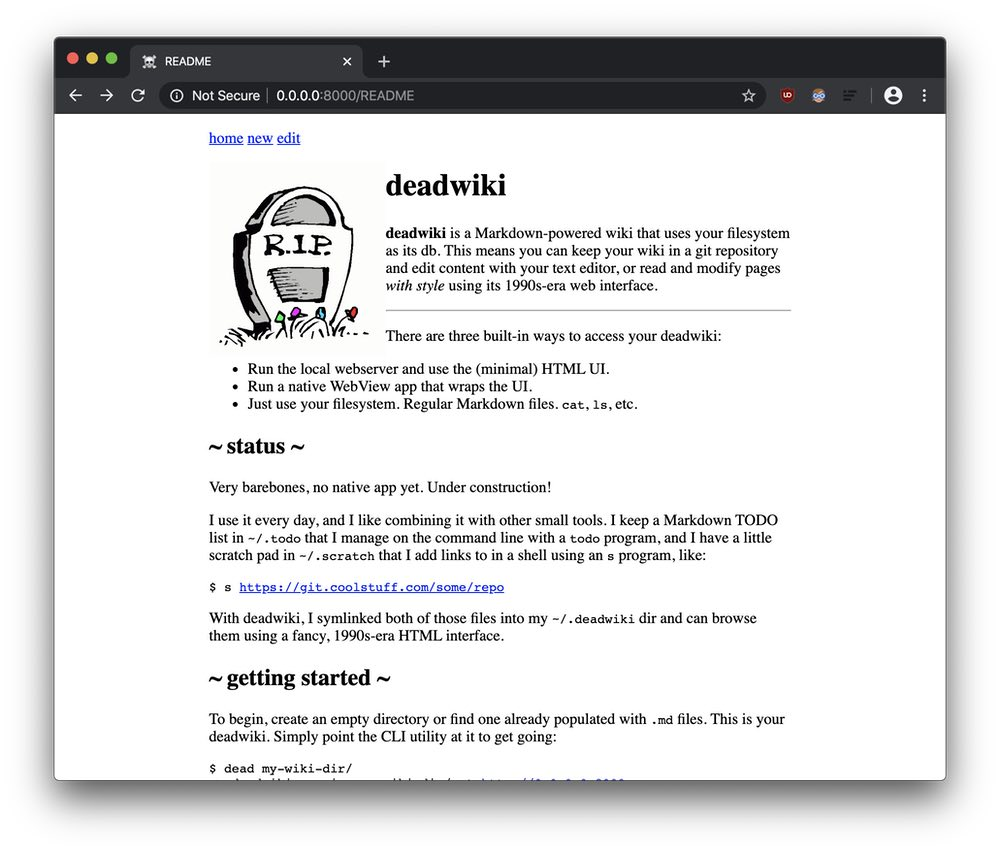
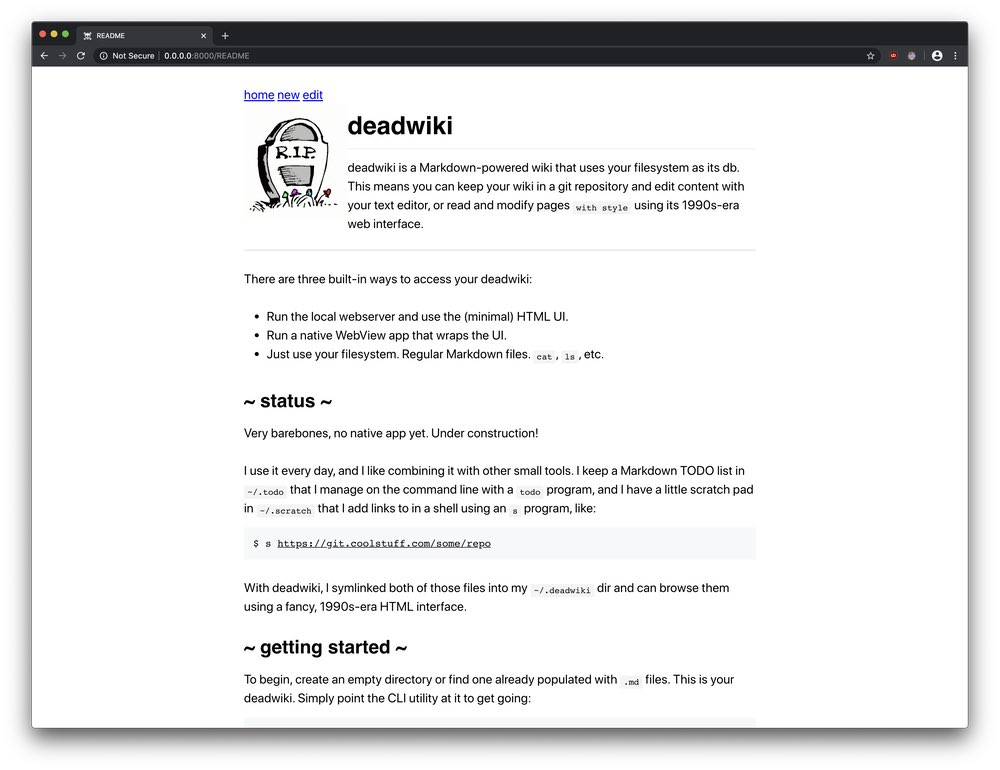
update screenies

Changed region(s): [[0.0, 0.0, 0.992, 0.9974]]

diff --git a/static/css/style.css b/static/css/style.css
@@ -26,7 +26,7 @@ h1 {
 }
 
 h1:first-of-type {
-    margin-top: 24px;
+    margin-top: 10px;
     margin-bottom: 16px;
     font-weight: 600;
     line-height: 1.25;
